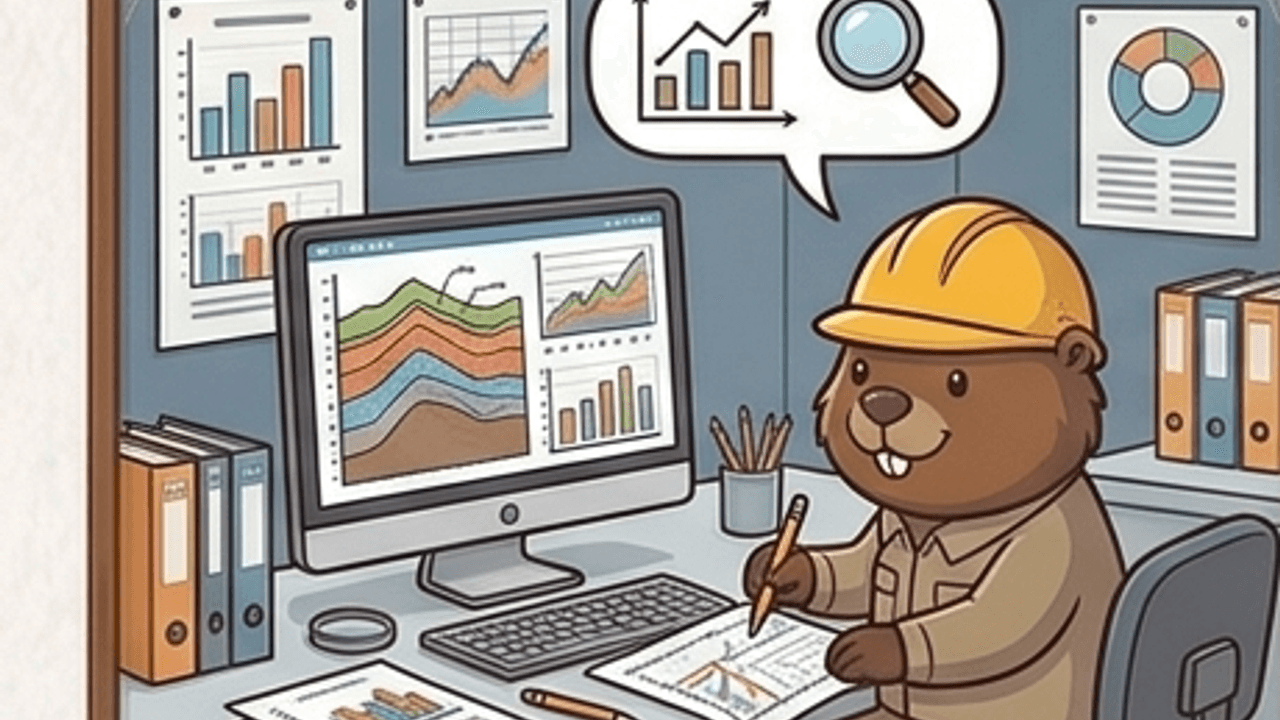
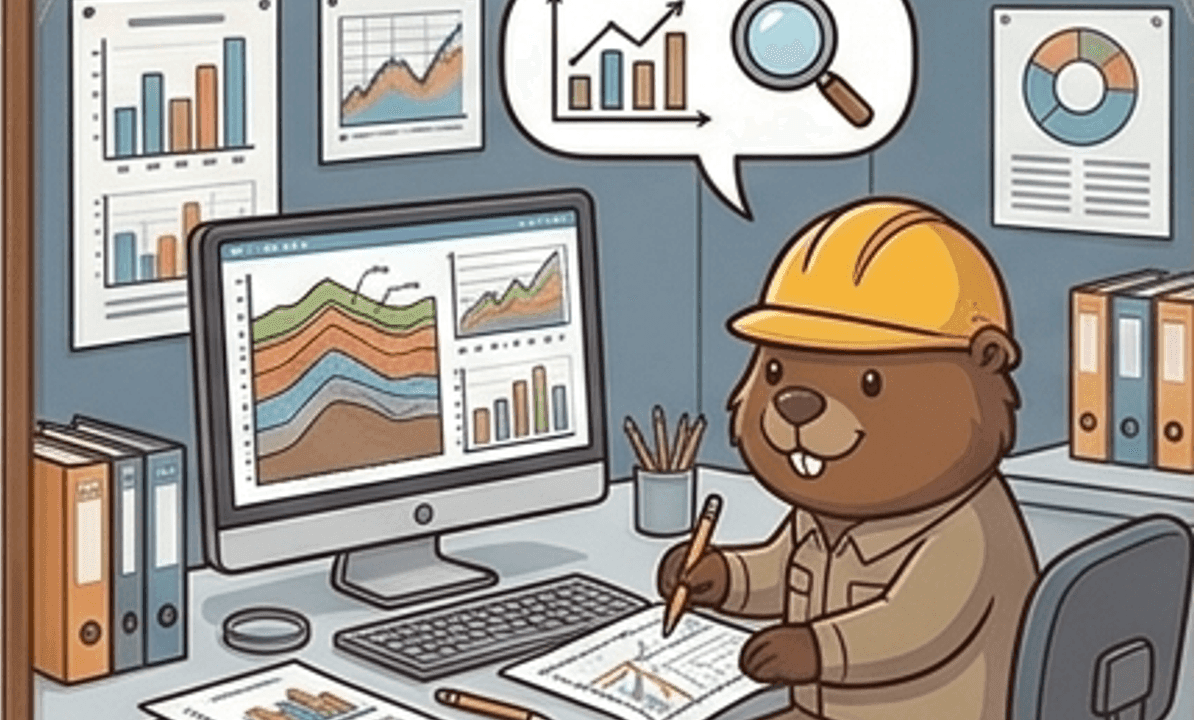
記事内画像の白縁を自動トリミング
- sharp の trim() で画像内部の白い額縁を除去
- 画像本体のサイズが適正化され、CSS角丸との二重枠感を解消
- トリミング用スクリプト scripts/trim-borders.js を追加

diff --git a/scripts/trim-borders.js b/scripts/trim-borders.js
@@ -1,0 +1,39 @@
+const sharp = require("sharp");
+const fs = require("fs");
+const path = require("path");
+
+const files = [
+  "doboku-beaver.png",
+  "zouen-beaver.png",
+  "kanri-beaver.png",
+  "benkyochu-beaver.png",
+  "study-steps.png",
+  "mondai-scene.png",
+];
+
+const base = path.join(__dirname, "..", "public", "images", "posts");
+
+(async () => {
+  for (const name of files) {
+    const p = path.join(base, name);
+    if (!fs.existsSync(p)) {
+      console.log("SKIP (not found):", name);
+      continue;
+    }
+    try {
+      const before = await sharp(p).metadata();
+      // Trim pixels similar to the top-left (border) color; threshold 30
+      const trimmed = await sharp(p)
+        .trim({ threshold: 30 })
+        .png({ compressionLevel: 9, palette: true, quality: 85, effort: 10 })
+        .toBuffer();
+      const meta = await sharp(trimmed).metadata();
+      fs.writeFileSync(p, trimmed);
+      console.log(
+        `${name.padEnd(28)} ${before.width}x${before.height} -> ${meta.width}x${meta.height}  (ratio: ${(meta.width / meta.height).toFixed(2)})`
+      );
+    } catch (e) {
+      console.error("ERROR on", name, e.message);
+    }
+  }
+})();
